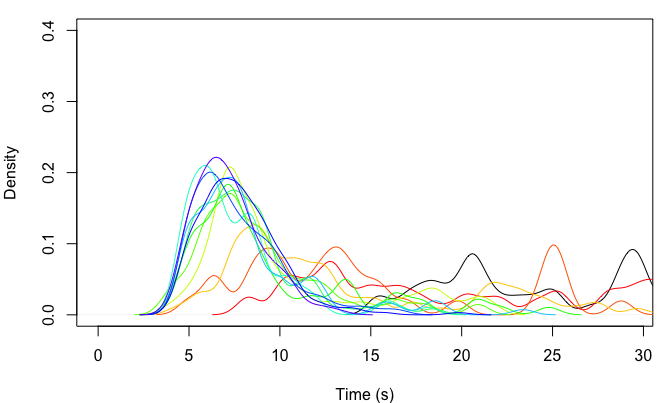
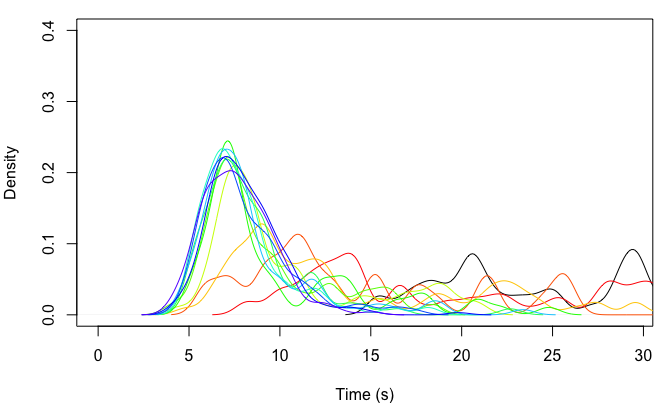
Increasing tolerance level and improving density estimation to avoid local optima
Also commenting out resampling of seq_ratios after innovation, because it is just injecting additional noise into the model

Changed region(s): [[0.1875, 0.3573, 0.9688, 0.804], [0.9062, 0.6849, 0.9688, 0.7146]]

diff --git a/README.md b/README.md
@@ -117,9 +117,9 @@ beta
 (init_time/n_holds)*seq_ratios
 ```
 
-    ##  [1] 0.2510695 0.9861053 1.1043605 0.9091305 0.5400233 0.8781832 0.9485455
-    ##  [8] 0.7096227 1.2019516 0.6800613 0.4753352 1.0570214 0.8045630 0.5821169
-    ## [15] 0.3413088 0.9278757 1.2436039 0.8361275 0.8891036 1.4523676
+    ##  [1] 0.1578364 1.1757189 1.3990093 1.1000627 0.4989064 0.9173631 1.1655860
+    ##  [8] 0.6282757 1.4893744 0.6199392 0.3334945 1.1853529 0.7466658 0.5577448
+    ## [15] 0.2737298 1.1294678 1.9106195 0.8887322 1.0085892 2.0933238
 
 This `sd_multiplier` value of 0.5 generates a distribution of times per
 hold that is similar to the example distribution in [Reveret et
@@ -324,7 +324,7 @@ output <- SpeedClimbingABM(n = n, years = years, pop_data = pop_data, grid = gri
 Sys.time() - start
 ```
 
-    ## Time difference of 0.3316419 secs
+    ## Time difference of 0.2135961 secs
 
 In the above plot, each distribution (from right to left) is the
 distribution of `current_records` for climbers in the population in each
@@ -337,29 +337,29 @@ output
 
     ##              0%       10%       20%       30%       40%       50%       60%
     ##  [1,] 15.400000 18.256000 20.408000 21.188000 24.432000 28.640000 29.712000
-    ##  [2,]  8.080000 10.753423 12.587204 14.207000 16.559999 20.284150 25.138614
-    ##  [3,]  4.996583  7.194799  9.030932  9.952271 11.880000 13.065941 14.024687
-    ##  [4,]  4.315341  7.295000  8.020000  8.890000  9.690000 11.034524 12.370000
-    ##  [5,]  3.974841  6.071649  6.880000  7.225000  7.532795  8.434367  8.665037
-    ##  [6,]  3.804652  5.501821  6.161151  6.993560  7.262000  7.830641  8.829000
-    ##  [7,]  4.188695  5.256774  6.077792  6.850743  7.198000  7.660000  8.348520
-    ##  [8,]  4.144488  5.228664  5.842888  6.484375  7.065868  7.700000  8.120000
-    ##  [9,]  4.524479  4.917008  5.326554  5.888223  6.198433  6.670000  7.606000
-    ## [10,]  4.547437  5.063606  5.786508  6.482000  6.876000  7.595000  7.844000
-    ## [11,]  4.543097  5.102602  5.663103  6.102708  6.518811  7.186863  7.732656
-    ## [12,]  4.084394  5.179509  5.925093  6.500400  6.915210  7.580000  7.966000
-    ## [13,]  4.080630  5.016933  5.637728  6.095874  6.476762  6.902443  7.371889
-    ##             70%      80%       90%     100%
-    ##  [1,] 32.472000 39.54800 43.254000 62.06000
-    ##  [2,] 28.862000 30.94642 33.133000 48.08000
-    ##  [3,] 15.785179 24.60375 25.299845 33.23000
-    ##  [4,] 14.985076 21.57000 23.695000 31.90000
-    ##  [5,] 10.089648 13.18874 18.175221 21.69333
-    ##  [6,]  9.524354 10.89000 13.399911 20.89827
-    ##  [7,]  9.596461 13.48200 16.519078 24.79000
-    ##  [8,]  8.812952  9.40300 11.792800 18.42670
-    ##  [9,]  8.324000  8.76034 10.603648 18.15000
-    ## [10,]  8.604000 10.05378 12.051000 23.37000
-    ## [11,]  8.558000  9.54400 10.897103 16.59000
-    ## [12,]  8.727948  9.23980 10.444000 19.83000
-    ## [13,]  7.968400  8.60480  9.800413 13.30600
+    ##  [2,]  8.080000 11.238939 12.669751 13.990689 16.452564 20.388528 25.160000
+    ##  [3,]  5.819219  7.300842  9.272361 10.504454 11.156461 12.500611 15.249844
+    ##  [4,]  4.806618  7.330000  8.480000  9.079843  9.880000 11.505000 12.550329
+    ##  [5,]  4.406939  6.713934  7.211760  7.508967  7.980000  8.520000  9.195742
+    ##  [6,]  4.199910  6.118220  6.524288  7.113711  7.262000  7.845867  8.610000
+    ##  [7,]  5.102482  6.143769  6.722591  7.036545  7.250019  7.660000  8.526000
+    ##  [8,]  5.041873  5.687699  6.430000  6.915658  7.182665  7.700000  8.149460
+    ##  [9,]  4.944646  5.654298  6.145793  6.621117  6.951587  7.362807  7.954000
+    ## [10,]  4.584891  5.711984  6.429074  6.671201  7.136912  7.625000  7.996626
+    ## [11,]  4.523508  5.697844  6.131082  6.681000  7.035228  7.458287  8.094000
+    ## [12,]  4.220585  5.948076  6.485688  6.840400  7.283394  7.758720  8.199200
+    ## [13,]  4.174042  5.559892  6.025713  6.503891  7.074136  7.518823  8.005200
+    ##             70%       80%      90%     100%
+    ##  [1,] 32.472000 39.548000 43.25400 62.06000
+    ##  [2,] 28.563878 30.598000 33.13300 48.08000
+    ##  [3,] 17.758532 21.464739 25.52600 34.27877
+    ##  [4,] 16.842980 21.570000 23.69500 31.90000
+    ##  [5,] 10.734836 14.467456 18.09324 21.01397
+    ##  [6,]  9.667624 11.530000 14.50411 18.38490
+    ##  [7,] 10.083400 13.482000 17.26600 24.79000
+    ##  [8,]  8.974000  9.498400 11.81320 22.68466
+    ##  [9,]  8.324000  9.104328 11.26200 18.15000
+    ## [10,]  8.484000 10.018000 12.05100 23.37000
+    ## [11,]  8.794094  9.640000 11.21261 17.47735
+    ## [12,]  8.874064  9.380303 10.51600 19.83000
+    ## [13,]  8.584941  9.149064 10.20161 15.03341
